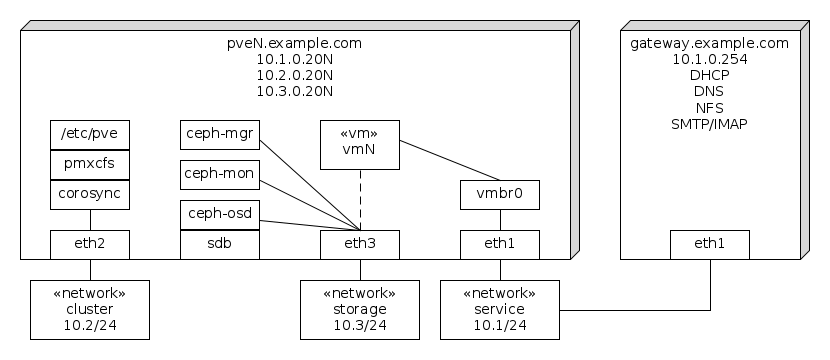
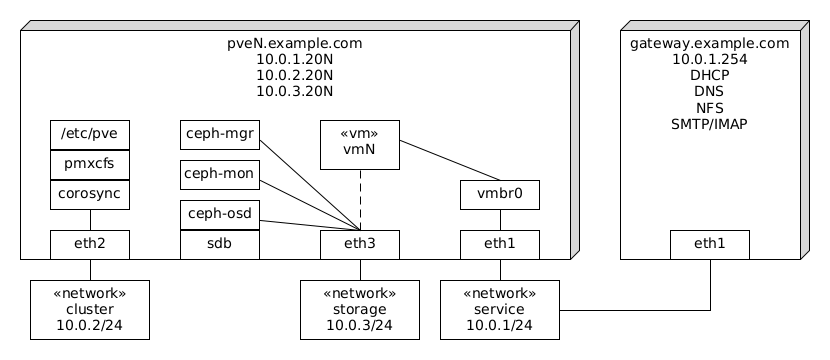
move the networks to 10.0.X/24 to be compatible with my current host network

diff --git a/README.md b/README.md
@@ -20,10 +20,10 @@ Build and install the [proxmox-ve Base Box](https://github.com/rgl/proxmox-ve).
 Add the following entries to your `/etc/hosts` file:
 
 ```plain
-10.1.0.254 example.com
-10.1.0.201 pve1.example.com
-10.1.0.202 pve2.example.com
-10.1.0.203 pve3.example.com
+10.0.1.254 example.com
+10.0.1.201 pve1.example.com
+10.0.1.202 pve2.example.com
+10.0.1.203 pve3.example.com
 ```
 
 Install the following Vagrant plugins:
@@ -75,9 +75,9 @@ Create the required virtual switches:
 ```bash
 PowerShell -NoLogo -NoProfile -ExecutionPolicy Bypass <<'EOF'
 @(
-  @{Name='proxmox-service'; IpAddress='10.1.0.1'}
-  @{Name='proxmox-cluster'; IpAddress='10.2.0.1'}
-  @{Name='proxmox-storage'; IpAddress='10.3.0.1'}
+  @{Name='proxmox-service'; IpAddress='10.0.1.1'}
+  @{Name='proxmox-cluster'; IpAddress='10.0.2.1'}
+  @{Name='proxmox-storage'; IpAddress='10.0.3.1'}
 ) | ForEach-Object {
   $switchName = $_.Name
   $switchIpAddress = $_.IpAddress
